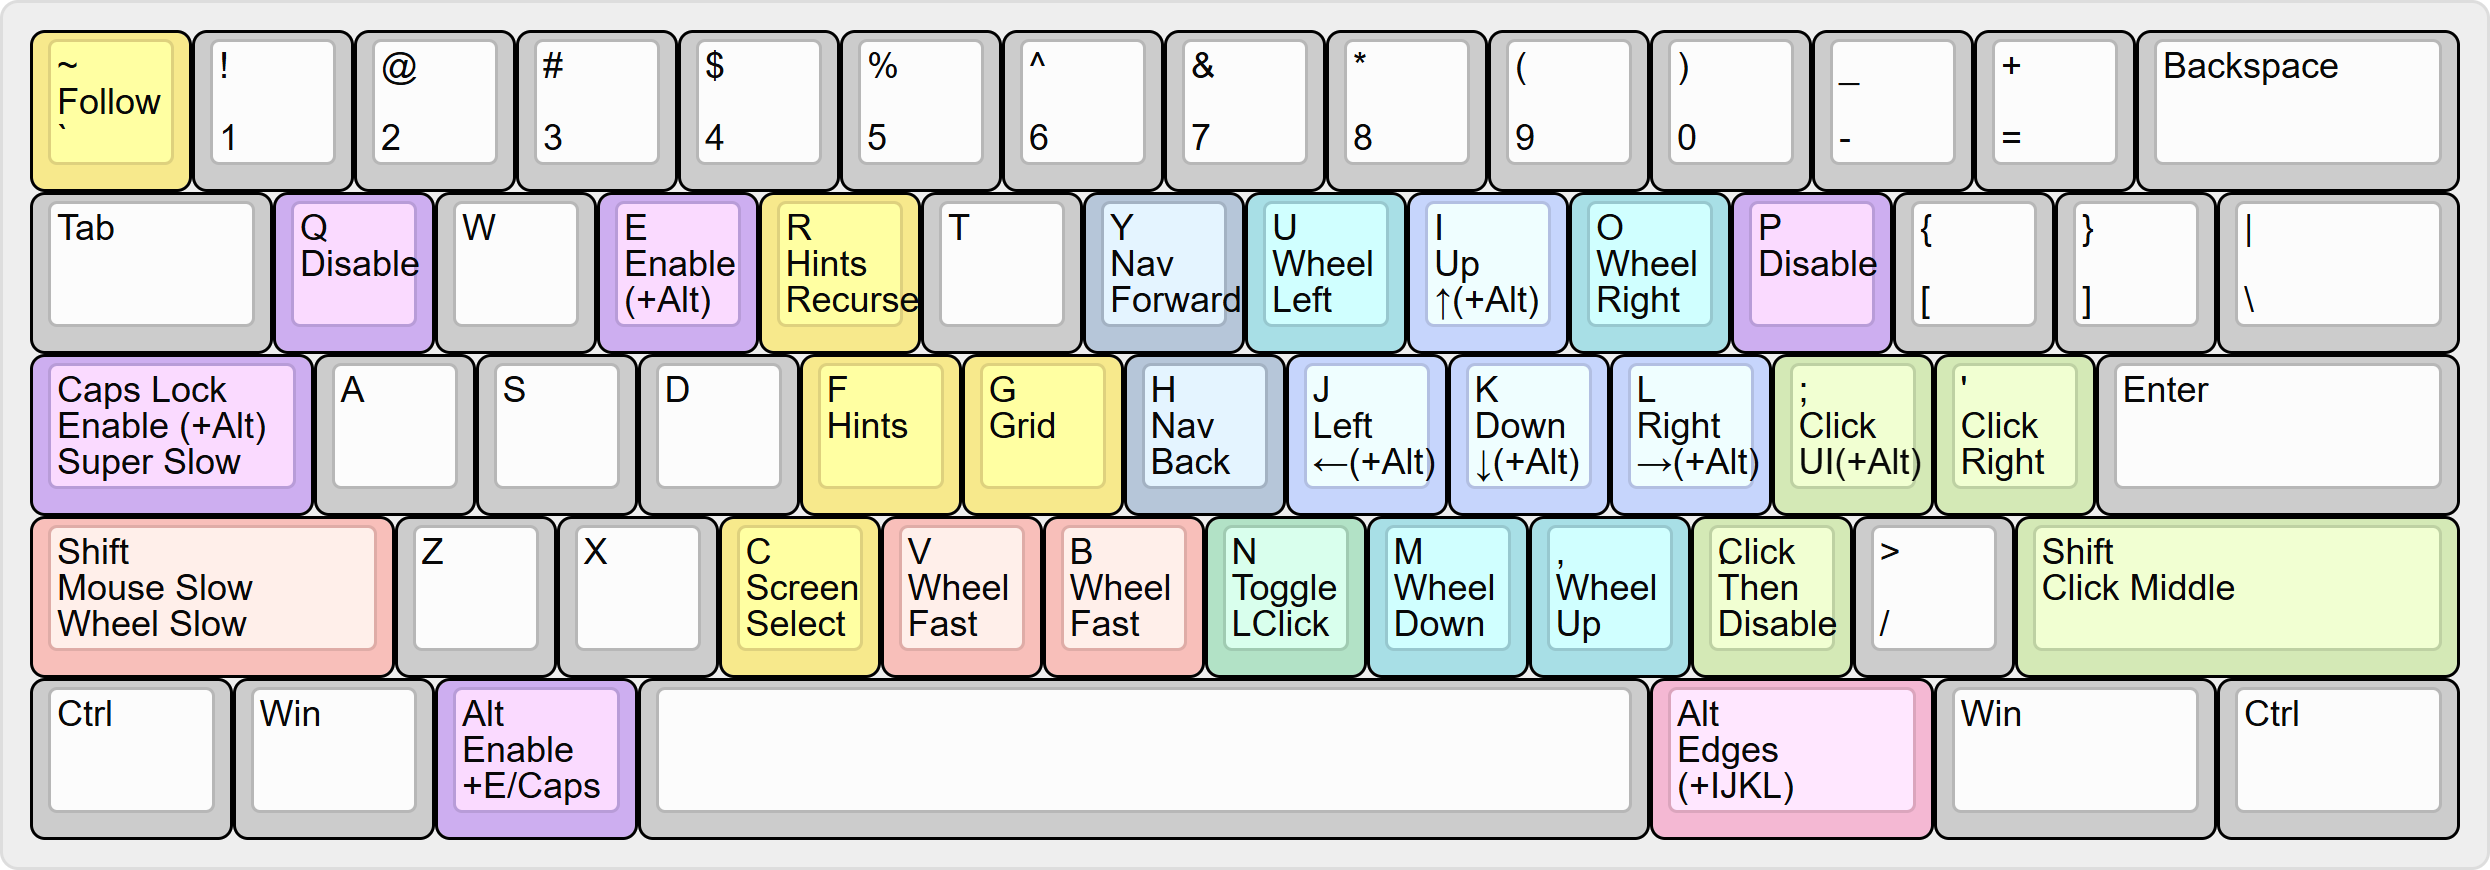
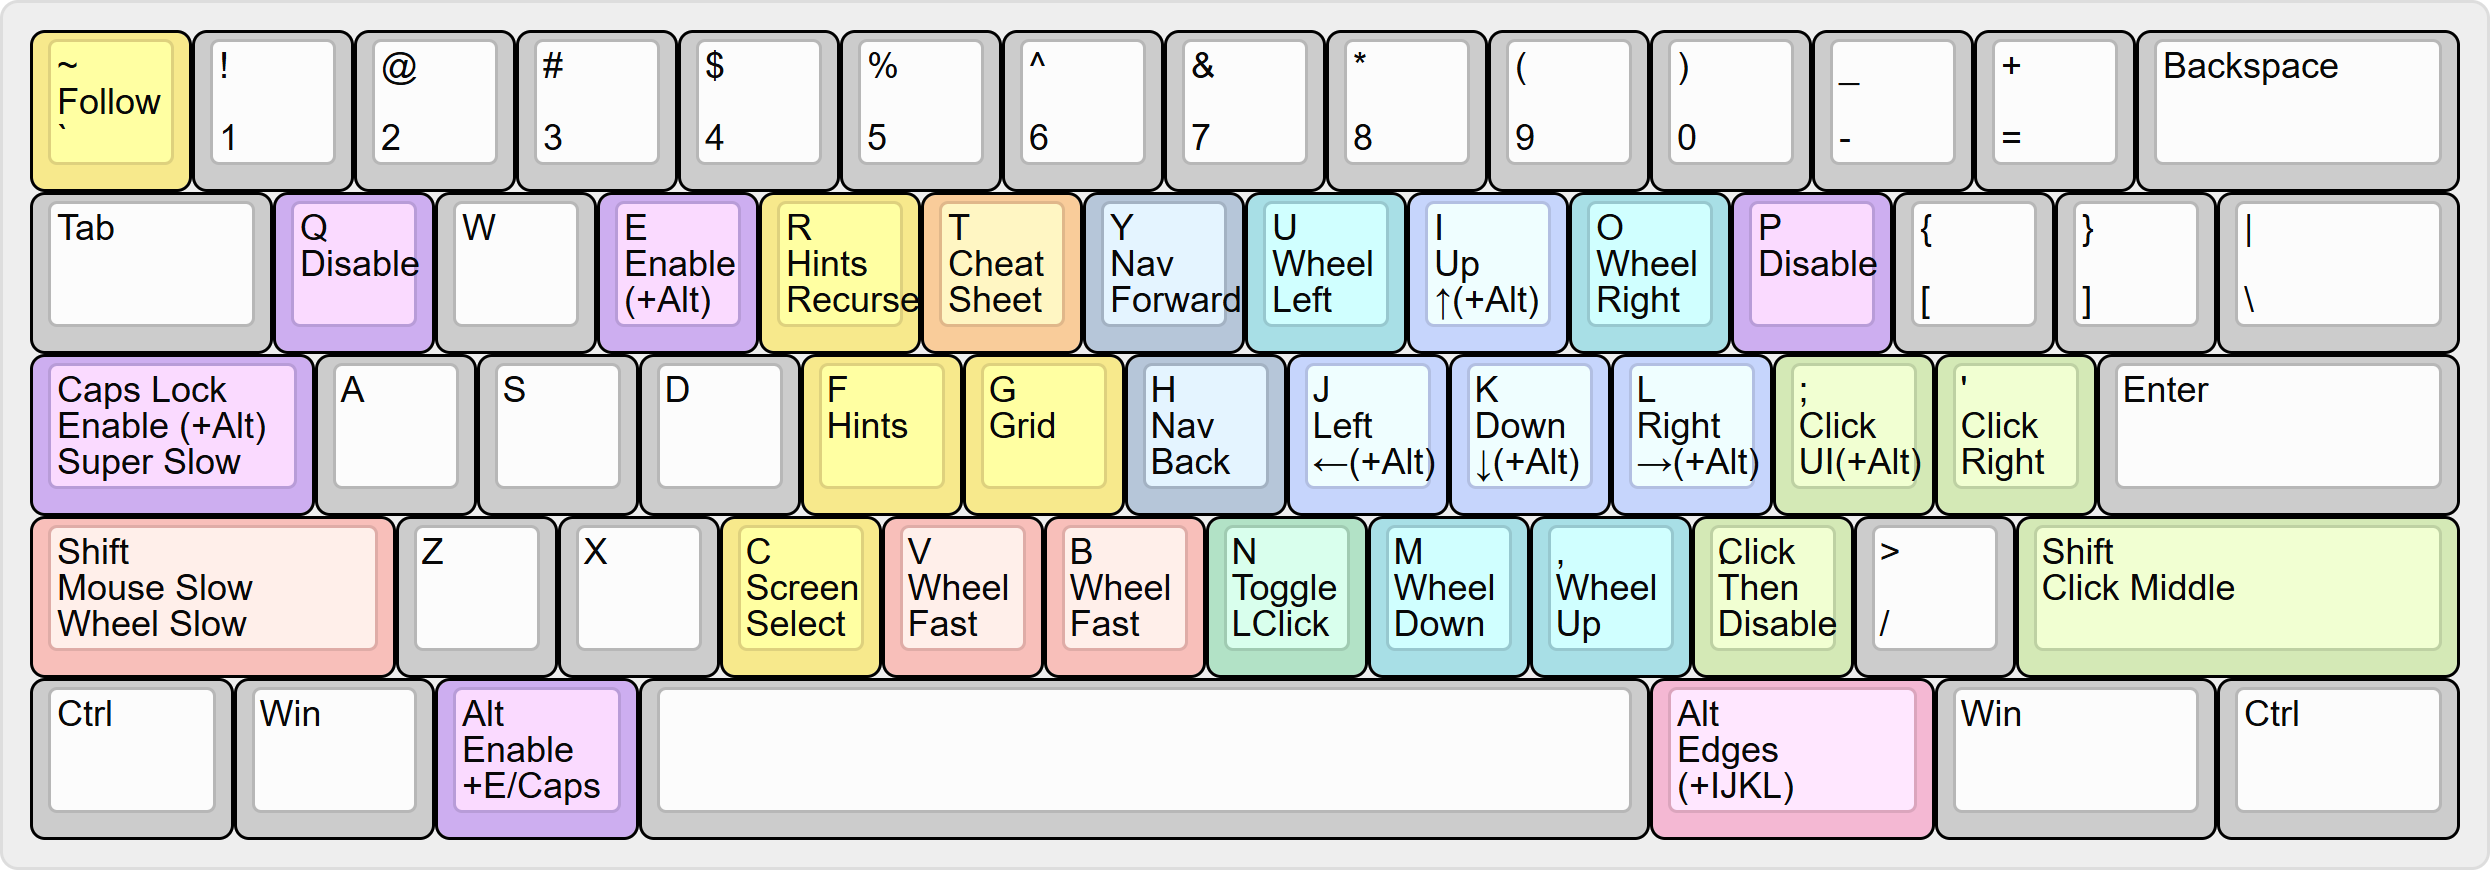
Show a neo-mousekeys-ijkl cheatsheet while t is held

Changed region(s): [[0.3092, 0.2172, 0.4329, 0.4034], [0.7112, 0.5276, 0.7731, 0.5586]]

diff --git a/docs/neo-mousekeys-ijkl.md b/docs/neo-mousekeys-ijkl.md
@@ -22,6 +22,7 @@
 - Super slow down mouse and scroll movement by holding _capslock_ while moving.
 - Accelerate mouse movement by holding _v_ or _b_ while moving.
 - Accelerate scroll movement by holding _v_ or _b_ while scrolling.
+- Show a cheatsheet of the keys while holding _t_.
 
 ## Key remappings
 - Press _leftalt + ijkl_ to simulate the arrow keys.
